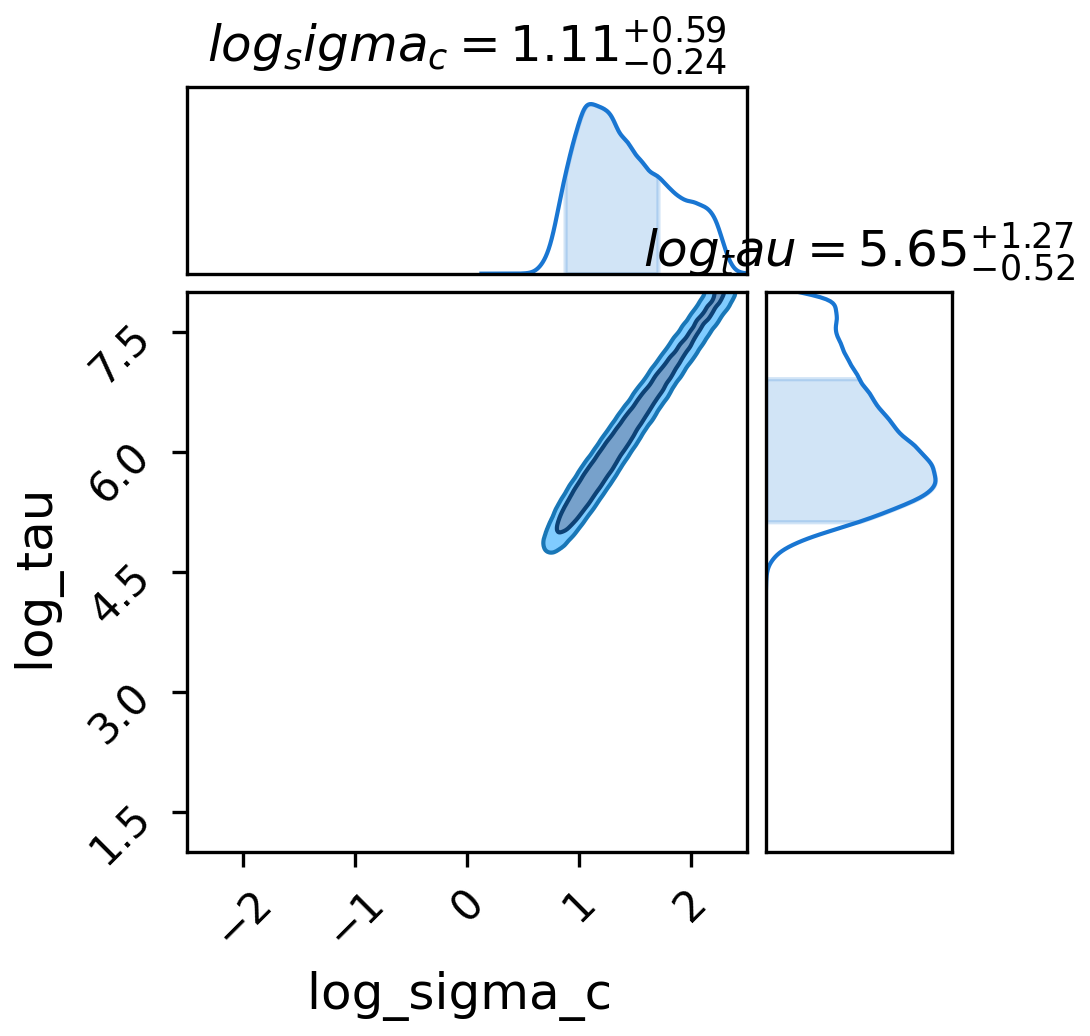
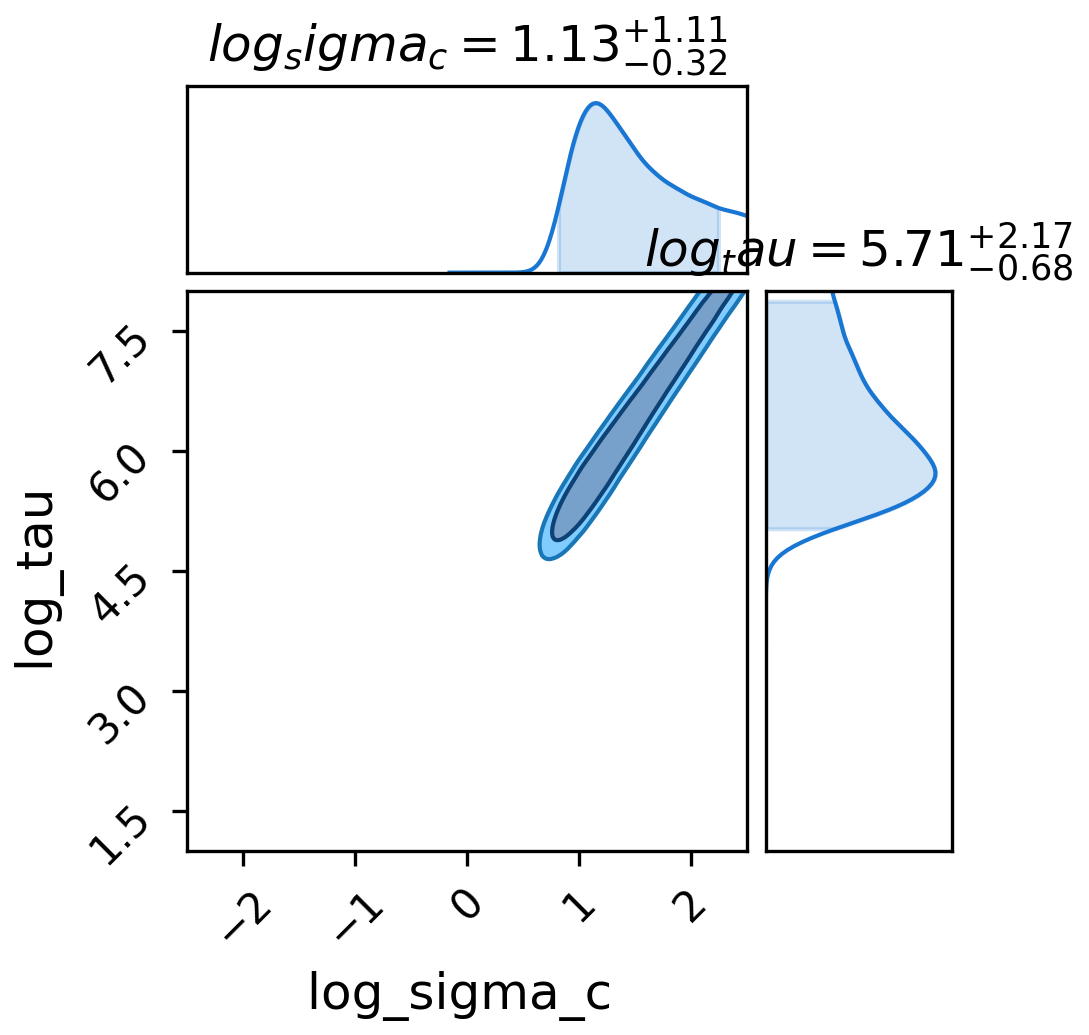
auto commit via batch

diff --git a/Data/real_data/91-A-2971134055/makecontours.py b/Data/real_data/91-A-2971134055/makecontours.py
@@ -51,5 +51,17 @@ DATA_2 = np.loadtxt("outchain-line2.dat")
 
 c2 = ChainConsumer()
 c2.add_chain(DATA[:,:2], parameters = ["lags_1","lags_2"], name = "Simultaneous Fitting")
-c2.add_chain(np.array([DATA_1[:,0],DATA_2[:,0]]).T, parameters = ["lags_1","lags_2"], name = "Simultaneous Fitting")
-c2.plotter.plot(filename ="./contours_linecomparison.png", extents=extents)
+c2.add_chain(np.array([DATA_1[:,0],DATA_2[:,0]]).T, parameters = ["lags_1","lags_2"], name = "Independent Fitting")
+c2.plotter.plot(filename ="./contours_linecomparison.jpg", extents=extents)
+
+
+#=======================================
+#Timescale Comparison
+IND_SIGMA_C = np.concatenate([DATA_1[:,1],DATA_2[:,1]])
+IND_TAU = np.concatenate([DATA_1[:,2],DATA_2[:,2]])
+
+c3 = ChainConsumer()
+c3.add_chain(np.array([DATA[:,2],DATA[:,3]]).T, parameters = ["log_sigma_c","log_tau"], name = "Simultaneous Fitting")
+c3.add_chain(np.array([IND_SIGMA_C,IND_TAU]).T, parameters = ["log_sigma_c","log_tau"], name = "Independent Fitting")
+c3.plotter.plot(filename ="./contours_linecomparison_cont.jpg", extents=extents)
+

diff --git a/processing/Consistency_check.py b/processing/Consistency_check.py
@@ -16,7 +16,7 @@ table_url = "SIMBA_jobstatus.dat"
 njobs = 93
 nbins = 32
 
-do_correl = False
+do_correl = True
 do_lags = True
 
 COVARS = np.zeros([njobs,3])
